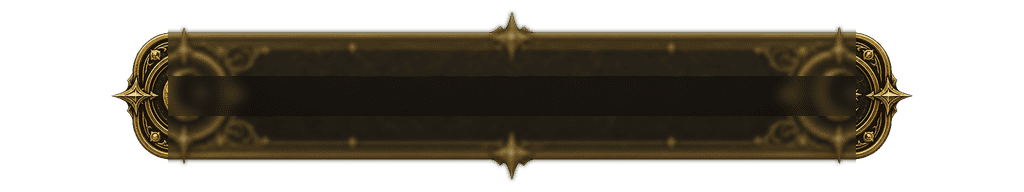
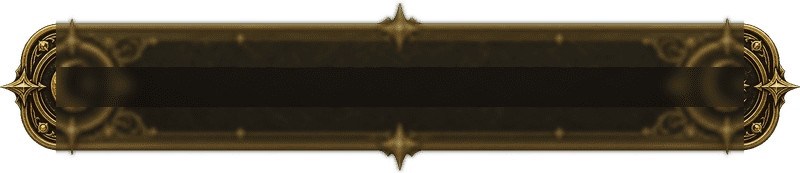
123

diff --git a/apps/web/src/routes/create-iframe.tsx b/apps/web/src/routes/create-iframe.tsx
@@ -10,8 +10,7 @@
  * No dependency on iframeMessage / HostBridge inside this file.
  */
 import { useState } from "react";
-import { co } from "@unseal-network/mobile-sdk";
-import { MobileHeader } from "../components/MobileHeader";
+import { ChevronLeft } from "lucide-react";
 import { BottomSheet } from "../components/BottomSheet";
 import { useCreateGame } from "../hooks/useCreateGame";
 import {
@@ -122,28 +121,42 @@ export function IframeCreatePage({
             }}
           />
         ))}
+
       </div>
+
       {/* ── Scrollable main content ─────────────────────────────────────── */}
       <div
         className="flex-1 relative z-10 overflow-y-auto flex flex-col gap-2.5"
-        style={{ padding: "calc(var(--web-safe-area-top, 0px) + 2p) 20px 0" }}
+        style={{ padding: "calc(var(--web-safe-area-top, 0px) + 12px) 20px 0" }}
       >
-        {/* User identity chip */}
-        {userId && (
-          <div className="flex items-center gap-2.5 px-3.5 py-2.5 rounded-[14px] bg-white/[0.03] border border-white/[0.07]">
-            <div className="w-8 h-8 rounded-full flex items-center justify-center text-sm font-bold text-purple-text shrink-0 bg-violet-500/20 border border-violet-500/30">
-              {getInitial(displayName)}
-            </div>
-            <div className="flex-1 min-w-0">
-              <div className="text-[13px] text-slate-200 font-semibold truncate">
-                {displayName}
+        {/* 返回按钮 + User identity chip */}
+        <div className="flex items-center gap-2.5">
+          {/* 返回按钮：方形 */}
+          <button
+            onClick={handleLeave}
+            aria-label="返回"
+            className="shrink-0 w-[42px] h-[42px] rounded-[10px] flex items-center justify-center bg-violet-500/[0.12] border border-violet-500/30 text-[#c4b5fd] shadow-[0_0_12px_rgba(139,92,246,0.25),0_4px_12px_rgba(0,0,0,0.40)] active:scale-90 active:shadow-[0_0_18px_rgba(139,92,246,0.45),0_4px_12px_rgba(0,0,0,0.40)] hover:bg-violet-500/20 hover:border-violet-500/50 transition-all duration-150 cursor-pointer"
+          >
+            <ChevronLeft size={18} strokeWidth={2} />
+          </button>
+
+          {/* Identity chip */}
+          {userId && (
+            <div className="flex-1 min-w-0 flex items-center gap-2.5 px-3.5 py-2.5 rounded-[14px] bg-white/[0.03] border border-white/[0.07]">
+              <div className="w-8 h-8 rounded-full flex items-center justify-center text-sm font-bold text-purple-text shrink-0 bg-violet-500/20 border border-violet-500/30">
+                {getInitial(displayName)}
               </div>
-              <div className="text-[10px] text-ink-faint truncate">
-                {userId}
+              <div className="flex-1 min-w-0">
+                <div className="text-[13px] text-slate-200 font-semibold truncate">
+                  {displayName}
+                </div>
+                <div className="text-[10px] text-ink-faint truncate">
+                  {userId}
+                </div>
               </div>
             </div>
-          </div>
-        )}
+          )}
+        </div>
 
         {/* Section header */}
         <div className="flex items-center gap-2.5 mt-1">
@@ -235,13 +248,6 @@ export function IframeCreatePage({
           )}
         </button>
 
-        {/* Leave */}
-        <button
-          onClick={handleLeave}
-          className="bg-transparent border-0 text-slate-400/50 text-xs cursor-pointer py-2 tracking-[0.12em] font-semibold"
-        >
-          ← Abandon
-        </button>
       </div>
 
       {/* ── BottomSheets ─────────────────────────────────────────────────── */}

diff --git a/apps/web/src/routes/game.$gameRoomId.tsx b/apps/web/src/routes/game.$gameRoomId.tsx
@@ -1,5 +1,8 @@
 import { useCallback, useEffect, useMemo, useRef, useState } from "react";
-import { createApiClient, defaultApiBaseUrl, type GameEventDto, type GameRoom, type RoomPlayer, type PlayerPrivateState, type RoomProjection } from "../api/client";
+import { createApiClient, defaultApiBaseUrl, type AgentCandidate, type GameEventDto, type GameRoom, type RoomPlayer, type PlayerPrivateState, type RoomProjection } from "../api/client";
+import { useIframeAuth } from "../hooks/useIframeAuth";
+import { isHostRuntime } from "../runtime/hostBridge";
+import type { MemberInfo } from "@unseal-network/game-sdk";
 import { GameRoomShell } from "../components/GameRoomShell";
 import { CenterStage, type ActionMode, type ConfirmMode } from "../components/CenterStage";
 import { CenterInfoPanel } from "../components/CenterInfoPanel";
@@ -10,7 +13,6 @@ import { StartDialog } from "../components/StartDialog";
 import { AgentPicker } from "../components/AgentPicker";
 import { SeerResultDialog } from "../components/SeerResultDialog";
 import { VoiceRoomProvider } from "../components/VoiceRoom";
-import type { AgentCandidate } from "../api/client";
 import { getPhaseAnimationCue } from "../animation/phaseCatalog";
 import { useT } from "../i18n/I18nProvider";
 import type { SceneId } from "../components/GameRoomShell";
@@ -358,6 +360,26 @@ function mapServerPhaseToUi(phase: string | null): PhaseUiSpec {
   }
 }
 
+function memberToAgentCandidate(
+  member: MemberInfo,
+  roomPlayers: RoomPlayer[]
+): AgentCandidate {
+  const alreadyJoined = roomPlayers.some(
+    (p) =>
+      !p.leftAt &&
+      (p.userId === member.userId ||
+        (member.agentId != null && p.agentId === member.agentId))
+  );
+  return {
+    userId: member.userId,
+    displayName: member.displayName,
+    avatarUrl: member.avatarUrl,
+    userType: member.isAgent ? "agent" : "user",
+    membership: "join",
+    alreadyJoined,
+  };
+}
+
 function uniqueSeatOrder(players: RoomPlayer[]): RoomPlayer[] {
   const bySeat = new Map<number, RoomPlayer>();
   for (const player of players) {
@@ -454,6 +476,8 @@ function parseCurrentSpeakerSeat(
 
 export function GameRoomPage({ gameRoomId, onLeave }: { gameRoomId: string; onLeave?: (() => void) | undefined }) {
   const t = useT();
+  const { iframeMessage } = useIframeAuth();
+  const hostRuntime = useMemo(() => isHostRuntime(), []);
   const [matrixToken] = useState(() => readMatrixToken());
   const [matrixUserId, setMatrixUserId] = useState(
     () => readStoredMatrixUserId() ?? DEMO_USER_ID
@@ -1191,15 +1215,24 @@ export function GameRoomPage({ gameRoomId, onLeave }: { gameRoomId: string; onLe
     setAgentLoading(true);
     setAgentError(undefined);
     try {
-      const result = await client.listAgentCandidates(gameRoomId);
-      setAgentCandidates(result.agents);
-      setAgentSourceRoomId(result.roomId);
+      if (hostRuntime) {
+        const members = await iframeMessage.getMembers();
+        const candidates = members
+          .filter((m) => !m.isSelf)
+          .map((m) => memberToAgentCandidate(m, room?.players ?? []));
+        setAgentCandidates(candidates);
+        setAgentSourceRoomId(undefined);
+      } else {
+        const result = await client.listAgentCandidates(gameRoomId);
+        setAgentCandidates(result.agents);
+        setAgentSourceRoomId(result.roomId);
+      }
     } catch (error) {
       setAgentError(error instanceof Error ? error.message : String(error));
     } finally {
       setAgentLoading(false);
     }
-  }, [client, gameRoomId]);
+  }, [client, gameRoomId, hostRuntime, iframeMessage, room?.players]);
 
   async function addAgentToSeat(agent: AgentCandidate) {
     try {

diff --git a/apps/web/src/components/LoadingPage.tsx b/apps/web/src/components/LoadingPage.tsx
@@ -1,11 +1,12 @@
 import { useState, useEffect } from "react";
-import { Fingerprint, Globe } from "lucide-react";
+import { Fingerprint, Globe, ChevronLeft } from "lucide-react";
 
 interface LoadingPageProps {
   isAdmin?: boolean;
   onAdminAction?: () => void;
   error?: string | null;
   onRetry?: () => void;
+  onLeave?: () => void;
 }
 
 export function LoadingPage({
@@ -13,6 +14,7 @@ export function LoadingPage({
   onAdminAction,
   error,
   onRetry,
+  onLeave,
 }: LoadingPageProps) {
   const [dots, setDots] = useState("");
 
@@ -41,6 +43,18 @@ export function LoadingPage({
           </div>
         </div>
       </div>
+
+      {/* Back button */}
+      {onLeave && (
+        <button
+          onClick={onLeave}
+          aria-label="返回"
+          className="fixed z-10 w-[42px] h-[42px] rounded-[10px] flex items-center justify-center bg-violet-500/[0.12] border border-violet-500/30 text-[#c4b5fd] shadow-[0_0_12px_rgba(139,92,246,0.25),0_4px_12px_rgba(0,0,0,0.40)] active:scale-90 hover:bg-violet-500/20 hover:border-violet-500/50 transition-all duration-150 cursor-pointer"
+          style={{ top: "calc(var(--web-safe-area-top, 0px) + 20px)", left: "20px" }}
+        >
+          <ChevronLeft size={18} strokeWidth={2} />
+        </button>
+      )}
 
       {/* Admin button */}
       {isAdmin && onAdminAction && (

diff --git a/apps/web/src/components/MobileHeader.tsx b/apps/web/src/components/MobileHeader.tsx
@@ -49,8 +49,3 @@ export function MobileHeader({ onClose, onMore }: MobileHeaderProps) {
   );
 }
 
-export const BackButton = () => {
-  return () => {
-    
-  }
-}

diff --git a/apps/web/src/main.tsx b/apps/web/src/main.tsx
@@ -228,10 +228,10 @@ function App() {
 
   // Loading states (host runtime only)
   if (hostRuntime && hostBootstrap.status === "checking") {
-    return <LoadingPage isAdmin={isAdmin} />;
+    return <LoadingPage isAdmin={isAdmin} onLeave={() => iframeAuth.iframeMessage.closeApp()} />;
   }
   if (hostRuntime && hostBootstrap.status === "waiting") {
-    return <LoadingPage isAdmin={isAdmin} error="等待房主创建并绑定游戏房间..." />;
+    return <LoadingPage isAdmin={isAdmin} error="等待房主创建并绑定游戏房间..." onLeave={() => iframeAuth.iframeMessage.closeApp()} />;
   }
   if (hostRuntime && hostBootstrap.status === "error") {
     return (
@@ -239,6 +239,7 @@ function App() {
         isAdmin={isAdmin}
         error={hostBootstrap.message}
         onRetry={() => window.location.reload()}
+        onLeave={() => iframeAuth.iframeMessage.closeApp()}
       />
     );
   }

diff --git a/apps/web/src/styles/game-room/components/ui-primitives.css b/apps/web/src/styles/game-room/components/ui-primitives.css
@@ -402,7 +402,7 @@
   --ww-button-width: calc(260px * var(--ww-button-scale));
   --ww-button-aspect-ratio: 3;
   --ww-button-font-size: calc(18px * var(--ww-button-scale));
-  --ww-button-label-optical-y: 0.08em;
+  --ww-button-label-optical-y: 0;
   --ww-button-chrome-slice: 40 64;
   --ww-button-chrome-width: calc(22px * var(--ww-button-scale)) calc(32px * var(--ww-button-scale));
   --ww-button-chrome-image: url("/assets/werewolf-ui/final/button/decision/confirm-button-9slice.webp");
@@ -500,7 +500,7 @@
 
 .game-layout-root .ww-game-button__content {
   position: absolute;
-  top: 0;
+  top: 10px;
   right: var(--ww-button-content-inset-x);
   bottom: 0;
   left: var(--ww-button-content-inset-x);

diff --git a/apps/web/src/components/GameButton.tsx b/apps/web/src/components/GameButton.tsx
@@ -23,6 +23,7 @@ export function GameButton({
   ...rest
 }: GameButtonProps) {
   const classes = [
+    "relative",
     "ww-game-button",
     `ww-game-button--${variant}`,
     `ww-game-button--${size}`,
@@ -43,7 +44,7 @@ export function GameButton({
       disabled={disabled || loading}
     >
       <span className="ww-game-button__chrome" aria-hidden="true" />
-      <span className="ww-game-button__content">
+      <span className="absolute z-4 left-0 right-0 top-2 bottom-0 flex items-center justify-center">
         {loading ? (
           <span className="ww-game-button__label">
             <span className="ww-game-button__spinner" aria-hidden="true" />

diff --git a/apps/web/index.html b/apps/web/index.html
@@ -2,7 +2,7 @@
 <html lang="en">
   <head>
     <meta charset="UTF-8" />
-    <meta name="viewport" content="width=device-width, initial-scale=1.0,viewport-fit=cover" />
+    <meta name="viewport" content="width=device-width, initial-scale=1.0, maximum-scale=1.0, user-scalable=no, viewport-fit=cover" />
     <title>Werewolf</title>
   </head>
   <body>

diff --git a/apps/web/src/game/timelineState.ts b/apps/web/src/game/timelineState.ts
@@ -1,3 +1,4 @@
+import { un } from "@unseal-network/mobile-log";
 import type {
   GameEventDto,
   GameRoom,
@@ -555,6 +556,7 @@ export function deriveTimelineDisplayState(
   );
   const room = deriveRoomFromTimeline(roomSnapshot, liveEvents, 0);
 
+  // un.log('room', room)
   return {
     room: room
       ? {

diff --git a/apps/web/src/runtime/snapshotSse.ts b/apps/web/src/runtime/snapshotSse.ts
@@ -6,6 +6,7 @@ import type {
   RoomProjection,
 } from "../api/client";
 import { computeTimelineBaseSeq } from "../game/timelineState";
+// import { un } from "@unseal-network/mobile-log";
 
 export interface SubscribeSnapshot {
   room: GameRoom;
@@ -190,6 +191,7 @@ export function useSnapshotSse({
     close();
     const source = new EventSource(subscribeUrl);
     source.onmessage = (event) => {
+      // un.log('[onmessage]', event.data)
       const parsed = parseSubscribeMessage(event.data);
       if (!parsed) return;
       onMessageRef.current?.(parsed);